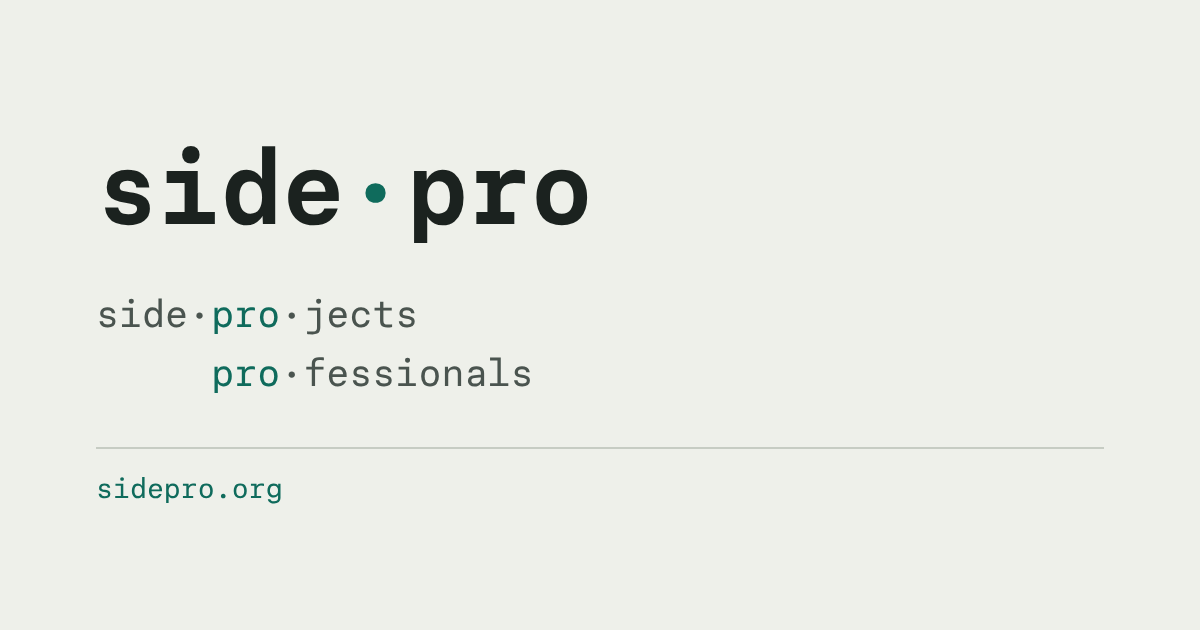
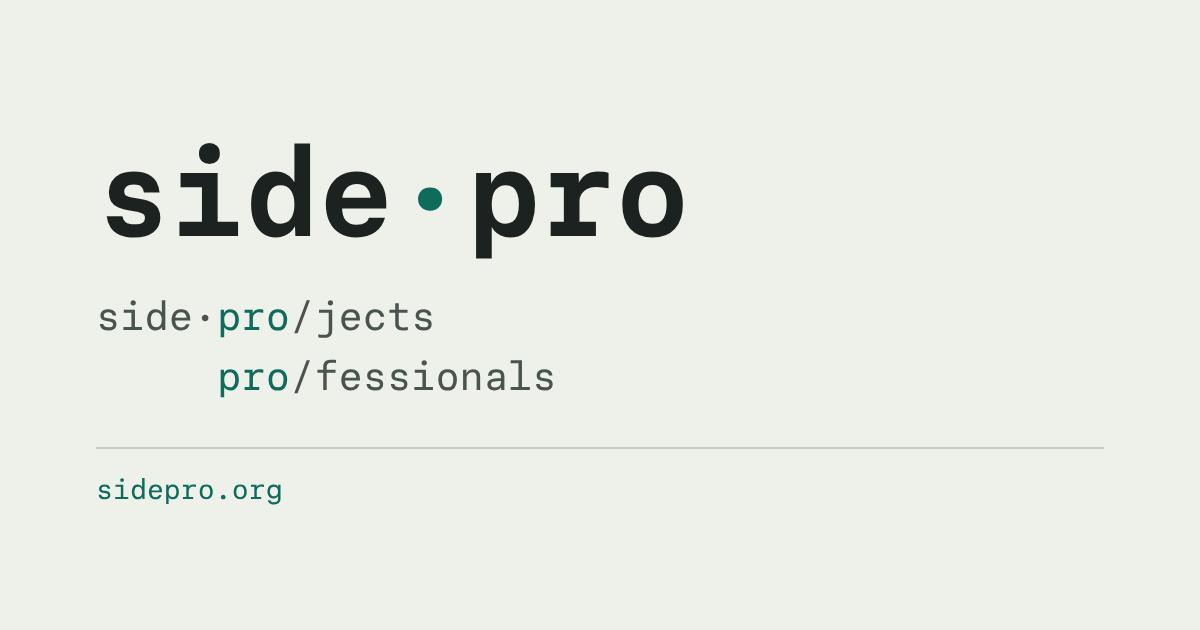
Barra en lugar de punto entre pro y jects/fessionals: animación del wordmark, posteos de verificación, texto alternativo e imagen para compartir
Claude-Session: https://claude.ai/code/session_01WyQD6qD1Gcs4Ff6pyMCYHH

diff --git a/gracias/index.html b/gracias/index.html
@@ -33,7 +33,7 @@ description: "Tu anotación llegó."
   if (!/^sidepro-[A-Z0-9]{4}$/.test(cod)) return;
   document.getElementById('verificar').hidden = false;
   document.getElementById('cod').textContent = cod;
-  var P = {"Español": {"ecuacion": "side·pro·jects\n     pro·fessionals\n\nMe anoté en side·pro: pongo horas libres en un sistema para una organización socio-ambiental{ciudad}. Todo en un repo abierto.\n\nsidepro.org · {cod}", "commit": "$ git commit -m \"side project: horas libres para una organización socio-ambiental{ciudad}\"\n\nArranco un ject en side·pro. El repo va a ser público, IA y decisiones incluidas.\n\nsidepro.org · {cod}", "pregunta": "Me anoté en side·pro para poner horas libres en el sistema de una organización socio-ambiental{ciudad}.\n\n¿Qué organización de tu barrio todavía lleva todo en un cuaderno?\n\nsidepro.org · {cod}", "_ciudad": " de mi ciudad"}, "English": {"ecuacion": "side·pro·jects\n     pro·fessionals\n\nI joined side·pro: I'm putting spare hours into a system for a socio-environmental organization{ciudad}. All in an open repo.\n\nsidepro.org · {cod}", "commit": "$ git commit -m \"side project: spare hours for a socio-environmental organization{ciudad}\"\n\nStarting a ject on side·pro. The repo will be public, AI and decisions included.\n\nsidepro.org · {cod}", "pregunta": "I joined side·pro to put spare hours into the system of a socio-environmental organization{ciudad}.\n\nWhich organization in your neighborhood still runs on a notebook?\n\nsidepro.org · {cod}", "_ciudad": " in my city"}}, N = {"Español": {"ecuacion": "La ecuación", "commit": "El commit", "pregunta": "La pregunta"}, "English": {"ecuacion": "The equation", "commit": "The commit", "pregunta": "The question"}};
+  var P = {"Español": {"ecuacion": "side·pro/jects\n     pro/fessionals\n\nMe anoté en side·pro: pongo horas libres en un sistema para una organización socio-ambiental{ciudad}. Todo en un repo abierto.\n\nsidepro.org · {cod}", "commit": "$ git commit -m \"side project: horas libres para una organización socio-ambiental{ciudad}\"\n\nArranco un ject en side·pro. El repo va a ser público, IA y decisiones incluidas.\n\nsidepro.org · {cod}", "pregunta": "Me anoté en side·pro para poner horas libres en el sistema de una organización socio-ambiental{ciudad}.\n\n¿Qué organización de tu barrio todavía lleva todo en un cuaderno?\n\nsidepro.org · {cod}", "_ciudad": " de mi ciudad"}, "English": {"ecuacion": "side·pro/jects\n     pro/fessionals\n\nI joined side·pro: I'm putting spare hours into a system for a socio-environmental organization{ciudad}. All in an open repo.\n\nsidepro.org · {cod}", "commit": "$ git commit -m \"side project: spare hours for a socio-environmental organization{ciudad}\"\n\nStarting a ject on side·pro. The repo will be public, AI and decisions included.\n\nsidepro.org · {cod}", "pregunta": "I joined side·pro to put spare hours into the system of a socio-environmental organization{ciudad}.\n\nWhich organization in your neighborhood still runs on a notebook?\n\nsidepro.org · {cod}", "_ciudad": " in my city"}}, N = {"Español": {"ecuacion": "La ecuación", "commit": "El commit", "pregunta": "La pregunta"}, "English": {"ecuacion": "The equation", "commit": "The commit", "pregunta": "The question"}};
   var T = { post: "Publicar en X", copy: "Copiar", copied: "Copiado." };
   var cont = document.getElementById('posteos');
   function pintar(l) {

diff --git a/_layouts/default.html b/_layouts/default.html
@@ -15,14 +15,14 @@
   <meta property="og:title" content="{{ og_titulo | strip }}">
   <meta property="og:description" content="{{ page.description | default: desc }}">
   <meta property="og:url" content="{{ page.url | absolute_url }}">
-  <meta property="og:image" content="{{ '/assets/og-sidepro.png' | absolute_url }}">
+  <meta property="og:image" content="{{ '/assets/og-sidepro.png' | absolute_url }}?v=2">
   <meta property="og:image:width" content="1200">
   <meta property="og:image:height" content="630">
   <meta property="og:image:alt" content="{{ t.og_alt }}">
   <meta name="twitter:card" content="summary_large_image">
   <meta name="twitter:title" content="{{ og_titulo | strip }}">
   <meta name="twitter:description" content="{{ page.description | default: desc }}">
-  <meta name="twitter:image" content="{{ '/assets/og-sidepro.png' | absolute_url }}">
+  <meta name="twitter:image" content="{{ '/assets/og-sidepro.png' | absolute_url }}?v=2">
   <meta name="twitter:image:alt" content="{{ t.og_alt }}">
   <meta name="color-scheme" content="light dark">
   <link rel="preload" href="{{ '/assets/fonts/PaperMono-Variable.woff2' | relative_url }}" as="font" type="font/woff2" crossorigin>
@@ -64,7 +64,7 @@
 </div>
 {% if es_inicio %}
 <script>
-// El wordmark escribe "jects" y "fessionals" después de "pro" una sola vez por sesión, y queda quieto.
+// El wordmark escribe "/jects" y "/fessionals" después de "pro" una sola vez por sesión, y queda quieto.
 // Sin movimiento si el sistema lo pide. El texto escrito es decorativo: el enlace sigue leyéndose "side·pro".
 (function () {
   var suf = document.getElementById("mark-suf"), cur = document.getElementById("mark-cur");
@@ -77,7 +77,7 @@
   var t = 700, pasos = [];
   function tipea(s) { for (var i = 1; i <= s.length; i++) (function (k) { pasos.push([t, function () { suf.textContent = s.slice(0, k); }]); })(i), t += 70; t += 900; }
   function borra(s) { for (var i = s.length - 1; i >= 0; i--) (function (k) { pasos.push([t, function () { suf.textContent = s.slice(0, k); }]); })(i), t += 40; t += 500; }
-  tipea("jects"); borra("jects"); tipea("fessionals"); borra("fessionals");
+  tipea("/jects"); borra("/jects"); tipea("/fessionals"); borra("/fessionals");
   pasos.push([t, function () { cur.className = "cur fija"; }]);
   pasos.forEach(function (p) { setTimeout(p[1], p[0]); });
 })();

diff --git a/en/gracias/index.html b/en/gracias/index.html
@@ -34,7 +34,7 @@ description: "Your sign-up arrived."
   if (!/^sidepro-[A-Z0-9]{4}$/.test(cod)) return;
   document.getElementById('verificar').hidden = false;
   document.getElementById('cod').textContent = cod;
-  var P = {"English": {"ecuacion": "side·pro·jects\n     pro·fessionals\n\nI joined side·pro: I'm putting spare hours into a system for a socio-environmental organization{ciudad}. All in an open repo.\n\nsidepro.org · {cod}", "commit": "$ git commit -m \"side project: spare hours for a socio-environmental organization{ciudad}\"\n\nStarting a ject on side·pro. The repo will be public, AI and decisions included.\n\nsidepro.org · {cod}", "pregunta": "I joined side·pro to put spare hours into the system of a socio-environmental organization{ciudad}.\n\nWhich organization in your neighborhood still runs on a notebook?\n\nsidepro.org · {cod}", "_ciudad": " in my city"}}, N = {"English": {"ecuacion": "The equation", "commit": "The commit", "pregunta": "The question"}};
+  var P = {"English": {"ecuacion": "side·pro/jects\n     pro/fessionals\n\nI joined side·pro: I'm putting spare hours into a system for a socio-environmental organization{ciudad}. All in an open repo.\n\nsidepro.org · {cod}", "commit": "$ git commit -m \"side project: spare hours for a socio-environmental organization{ciudad}\"\n\nStarting a ject on side·pro. The repo will be public, AI and decisions included.\n\nsidepro.org · {cod}", "pregunta": "I joined side·pro to put spare hours into the system of a socio-environmental organization{ciudad}.\n\nWhich organization in your neighborhood still runs on a notebook?\n\nsidepro.org · {cod}", "_ciudad": " in my city"}}, N = {"English": {"ecuacion": "The equation", "commit": "The commit", "pregunta": "The question"}};
   var T = { post: "Post on X", copy: "Copy", copied: "Copied." };
   var cont = document.getElementById('posteos');
   function pintar(l) {
